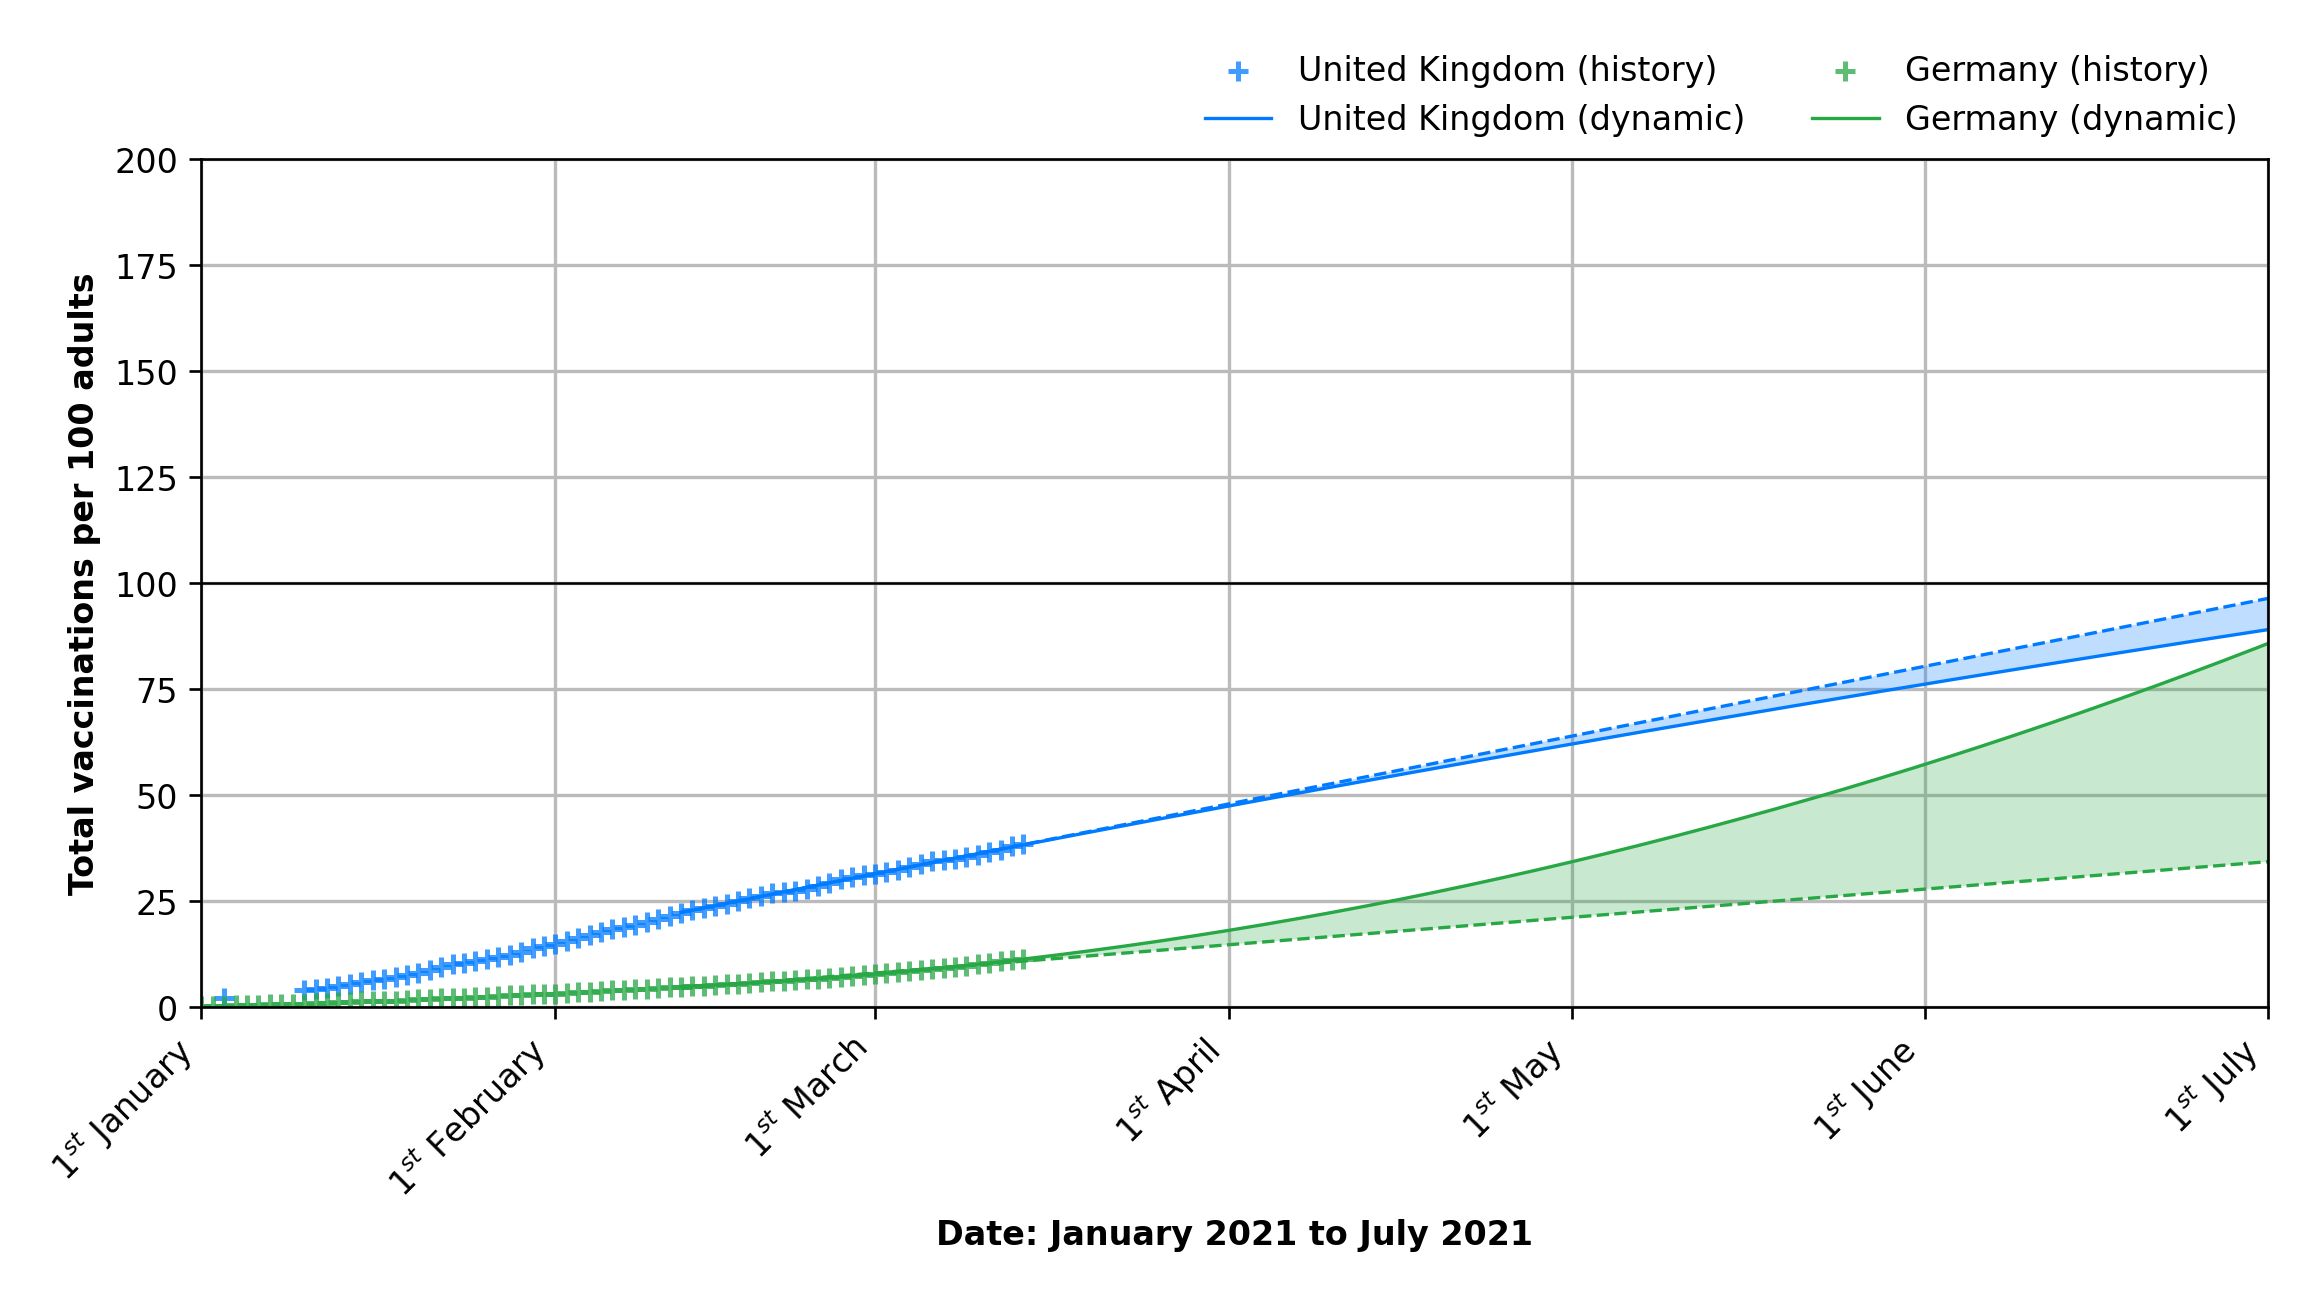
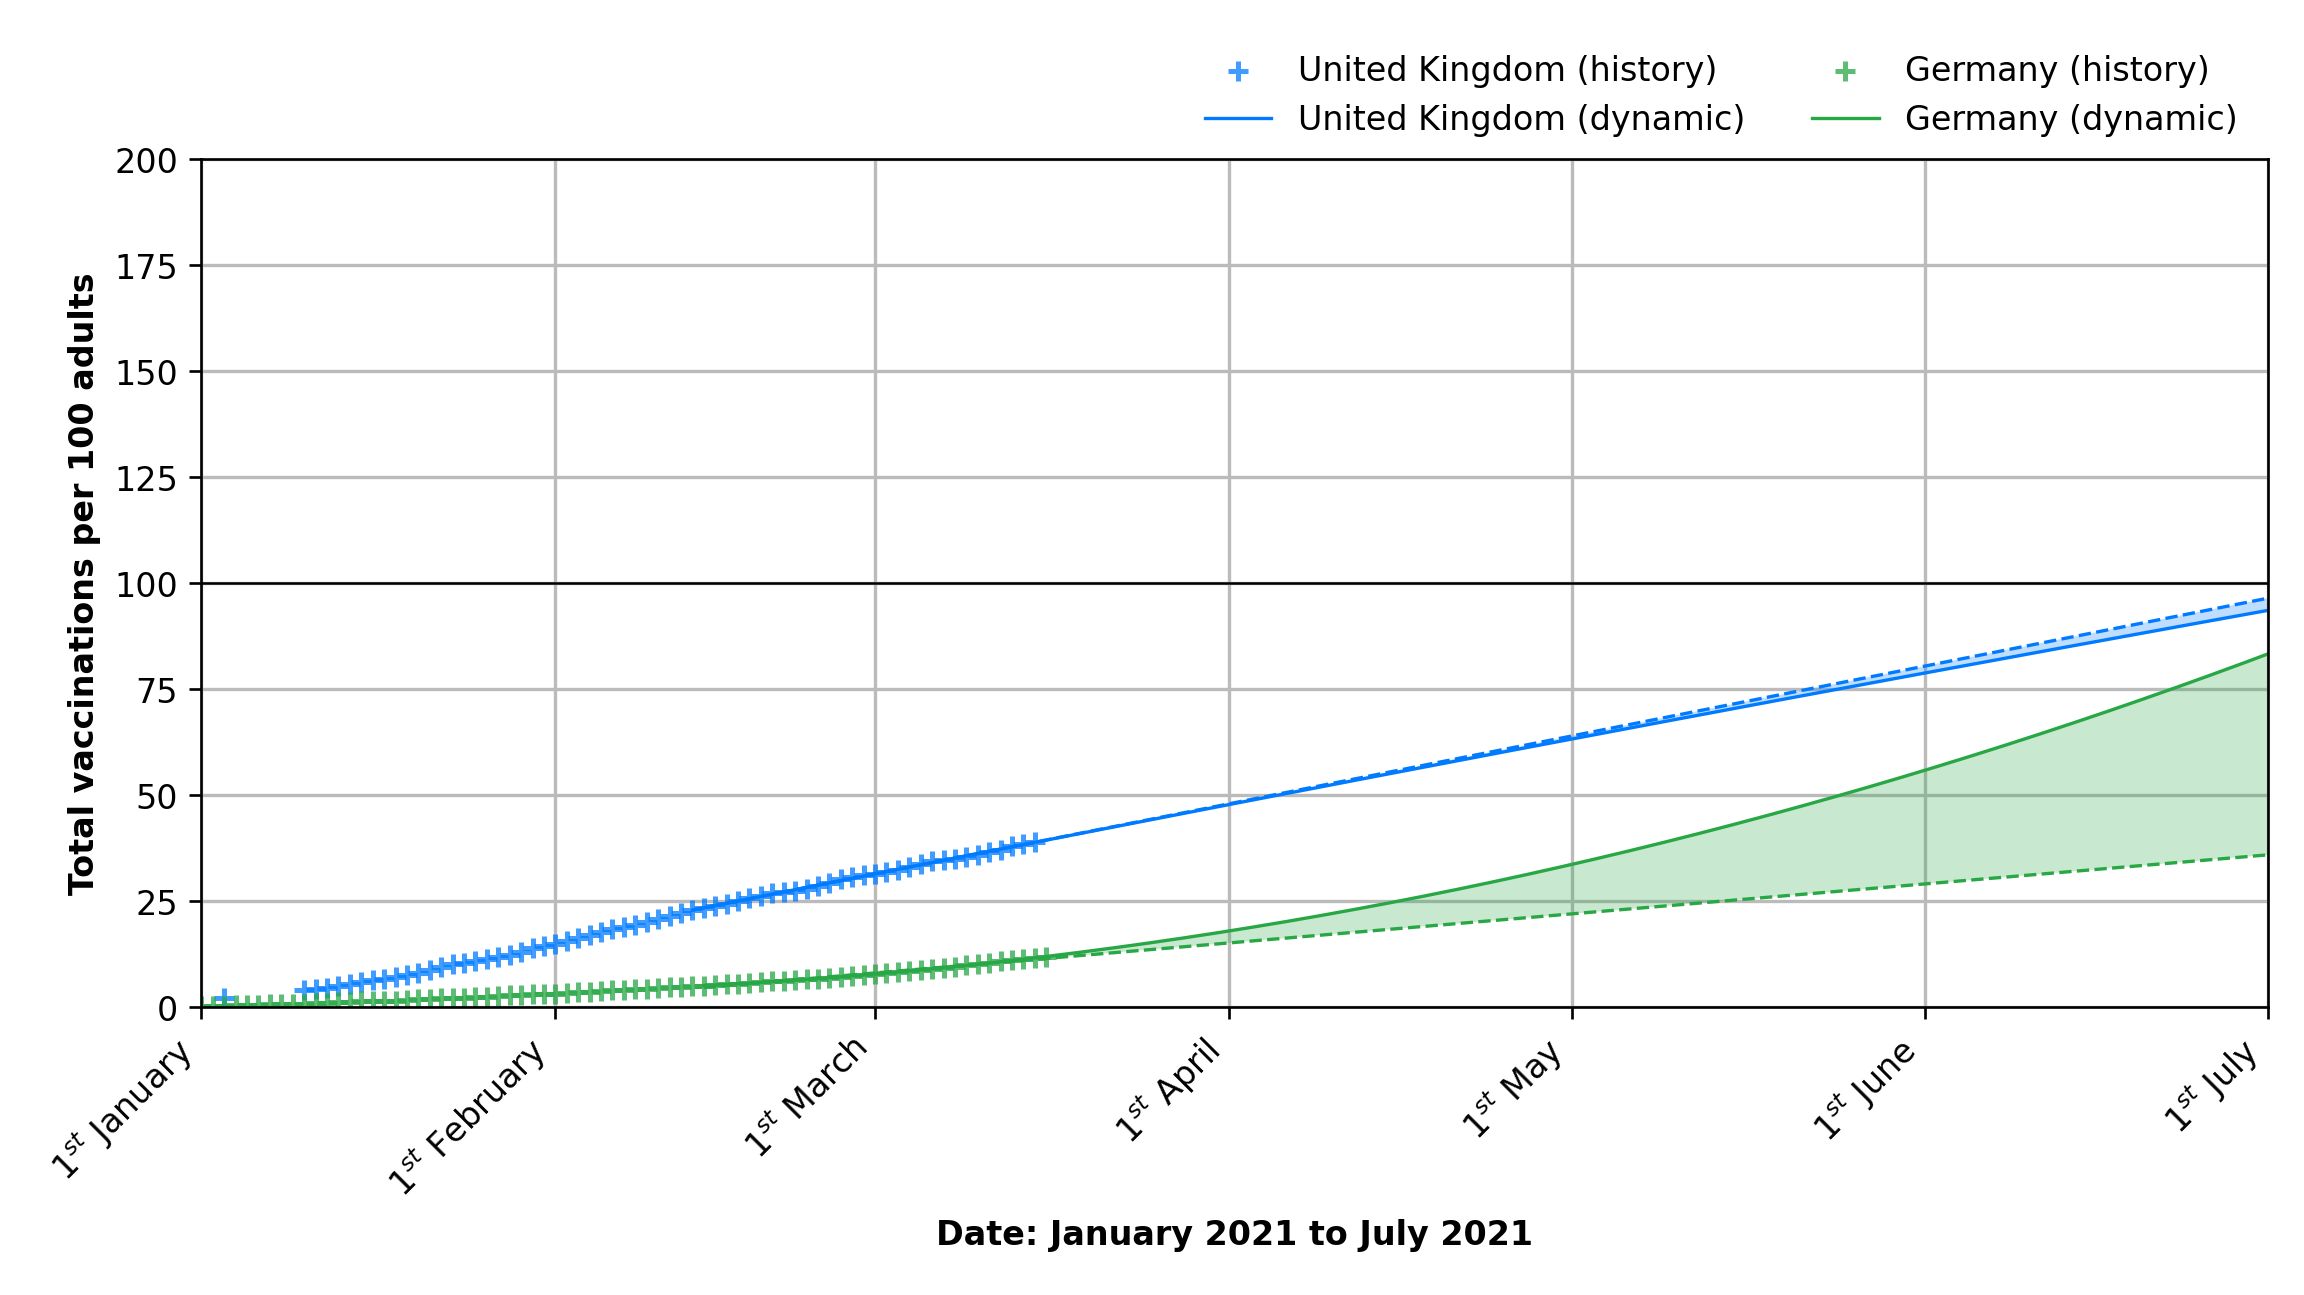
Deploying to gh-pages from @ lambdapioneer/vactrend@1b8b436be16664886d7738f8712cdc14d83be6f4 🚀

diff --git a/index.html b/index.html
@@ -37,13 +37,13 @@
                 <div class="card">
                     <div class="card-header">🇬🇧 United Kingdom</div>
                     <div class="card-body">
-                        <h3 class="font-weight-bold" style="color: #007bff">38.39 <small>(+0.41/d)</small></h3>
+                        <h3 class="font-weight-bold" style="color: #007bff">39.04 <small>(+0.65/d)</small></h3>
                         <p class="mt-n2">Vaccinations per 100 adults</p>
                         <h3 class=" font-weight-bold">08 July 2021</h3>
                         <p class="mt-n2">Earliest day: 100 vacc. per 100 adults</p>
                         <h3 class=" font-weight-bold">12 January 2022</h3>
                         <p class="mt-n2">Earliest day: 200 vacc. per 100 adults</p>
-                        <p class="card-text"><small class="text-muted">Last data from 14 March 2021.</small></p>
+                        <p class="card-text"><small class="text-muted">Last data from 15 March 2021.</small></p>
                     </div>
                 </div>
             </div>
@@ -52,13 +52,13 @@
                 <div class="card">
                     <div class="card-header">🇩🇪 Germany</div>
                     <div class="card-body">
-                        <h3 class="font-weight-bold" style="color: #28a745">11.22 <small>(+0.20/d)</small></h3>
+                        <h3 class="font-weight-bold" style="color: #28a745">11.76 <small>(+0.21/d)</small></h3>
                         <p class="mt-n2">Vaccinations per 100 adults</p>
-                        <h3 class=" font-weight-bold">15 July 2021</h3>
+                        <h3 class=" font-weight-bold">17 July 2021</h3>
                         <p class="mt-n2">Earliest day: 100 vacc. per 100 adults</p>
-                        <h3 class=" font-weight-bold">25 September 2021</h3>
+                        <h3 class=" font-weight-bold">29 September 2021</h3>
                         <p class="mt-n2">Earliest day: 200 vacc. per 100 adults</p>
-                        <p class="card-text"><small class="text-muted">Last data from 14 March 2021.</small></p>
+                        <p class="card-text"><small class="text-muted">Last data from 16 March 2021.</small></p>
                     </div>
                 </div>
             </div>
